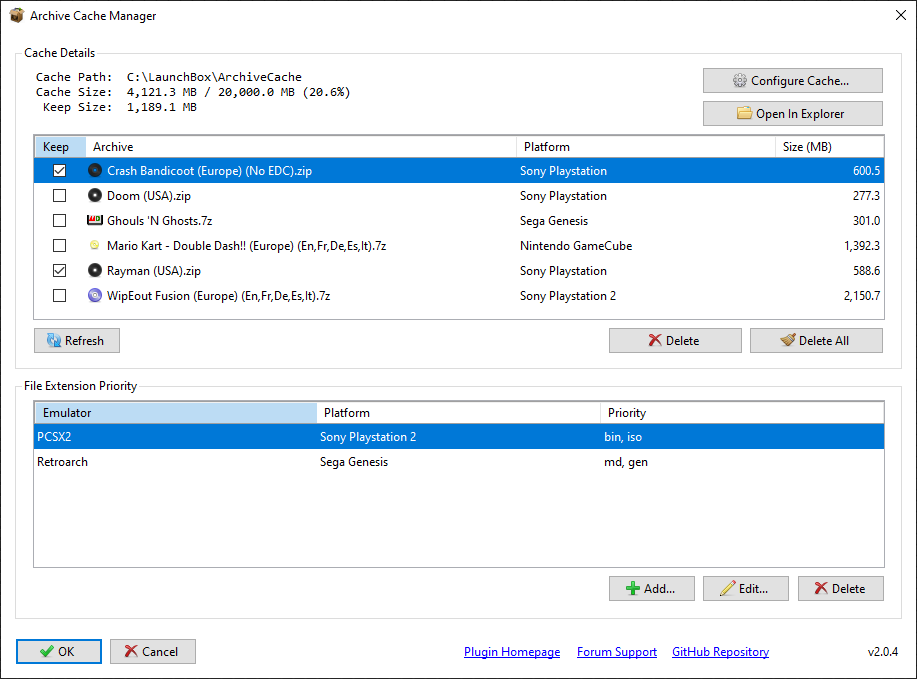
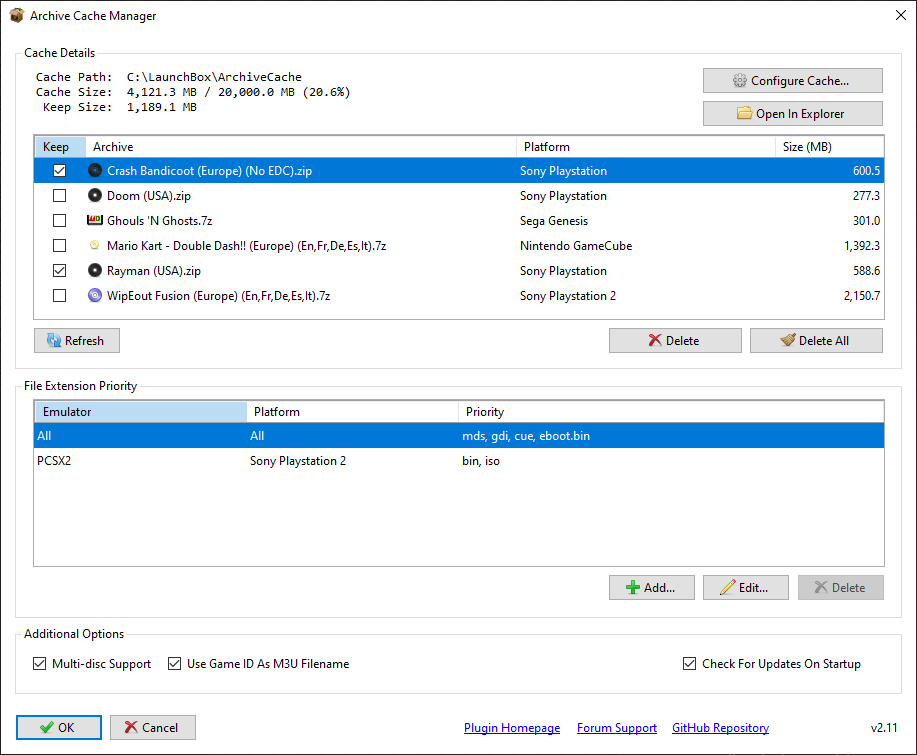
Readme updates

diff --git a/README.md b/README.md
@@ -1,7 +1,7 @@
 # Archive Cache Manager
 ![Achive Cache Manager logo](images/logo-v2-title.png?raw=true "Achive Cache Manager")
 
-A LaunchBox plugin which caches extracted ROM archives, letting you play games faster. Also allows launching individual files from archives, and loading preferred files from an archive.
+A LaunchBox plugin which caches extracted ROM archives, letting you play games faster. Also allows launching individual files from archives, and loading preferred file types from an archive.
 
 ## New in v2.11
 * Multi-disc support and automatic M3U generation
@@ -17,15 +17,14 @@ When a compressed ROM (in zip, 7z, or rar format) is first extracted, it is stor
 
 ![Launch time comparison video](images/launch-video.gif?raw=true "Side-by-side video comparing launch time of game from zip vs. from cache")
 
-As the cache approaches its maximum size, the least recently played games are deleted from the cache, making room for new games.
-
+As the cache size approaches the maximum size, the oldest played games are deleted from the cache, making room for new games.
 
 ## Features
 * Skip the extraction wait time for recently played games.
 * Configurable cache size and location.
-* Configurable minimum archive size (skip caching small archives).
-* Option to keep select ROMs cached and ready to play.
+* Configurable minimum archive size (don't cache small archives).
 * Option to extract all discs in a multi-disc game, and generate M3U file.
+* Option to keep select ROMs cached and ready to play.
 * Select and play individual ROM files from an archive.
 * Filename and extension priorities per emulator and platform (cue, bin, iso, etc).
 
@@ -36,7 +35,7 @@ Why use Archive Cache Manager? Here's some example use cases.
 * ROM library maintained as accurately ripped/dumped collections, where specialised compression formats not an option.
 * Extract and play archives from location other than `LaunchBox\ThirdParty\7-Zip\Temp`, such as high speed SSD.
 * Playing ripped PS2 games with PCSX2 where the disc image is bin/cue format, avoiding the "CDVD plugin failed to open" error message.
-* Playing MSU versions of games, where archive contains mix of cue, bin, and rom files.
+* Playing MSU versions of games, where need to launch the rom file instead of the cue file from the archive.
 * Your library contains GoodMerged sets, and you want a quick way to play individual ROMs.
 
 
@@ -44,7 +43,7 @@ Why use Archive Cache Manager? Here's some example use cases.
 * Download the latest release from https://forums.launchbox-app.com/files/file/234-archive-cache-manager/ or https://github.com/fraganator/archive-cache-manager/releases
 * Unblock the download if necessary (right-click file -> Properties -> Unblock)
 * Extract this archive to your `LaunchBox\Plugins` folder, then run LaunchBox / BigBox.
-* Within LaunchBox, ensure the desired emulator has the _"Extract ROM archives before running"_ option checked.
+* Within LaunchBox, ensure the emulator or emulator platform has the _"Extract ROM archives before running"_ option checked.
 
 
 ## Uninstallation
@@ -67,6 +66,11 @@ The next time the game is launched via the normal Play option, the previous ROM 
 The same menu is also available in BigBox, though currently only supports keyboard input.
 
 ![ROM file selection window](images/select-file-window-bigbox.png?raw=true "ROM file selection window")
+
+### Multi-Disc Games
+To use the multi-disc cache feature, check the _"Multi-disc Support"_ option in the Archive Cache Manager config window. The next time a multi-disc game is launched, all the discs from the game will be extracted to the cache and a corresponding M3U file generated.
+
+If the emulator \ platform supports M3U files (as configured in LaunchBox), the generated M3U file will be used when launching the game. Otherwise a single disc will be launched, and swapping between cached discs can be done manually in the emulator.
 
 ### Keeping Games Cached
 Games can be marked 'Keep' so they stay cached and ready to play. To keep a game cached, open the plugin configuration window from the _Tools->Archive Cache Manager_ menu. From there a list of games in the cache is shown. Check the Keep box next to the game, then click OK.
@@ -172,6 +176,11 @@ Check this option to use the game's ID (GUID) when creating an M3U file for a mu
 *Note: The name of the M3U file is typically used by emulators to name save files. Using the game ID guarantees the save game files will be unique, but can be difficult to manually manage.*
 
 Default: _Enabled_
+
+#### Check For Updates On Startup
+Enable this option to check for plugin updates when LaunchBox starts up. This is a simple version check of the latest release on github, and nothing is automatically downloaded or installed. If a new update is found a message box will appear shortly after LaunchBox is started, with the option to open the download page in a browser.
+
+Default: _On first run, a message box will appear asking the user if they'd like to enable the update check._
 
 
 ## Building
